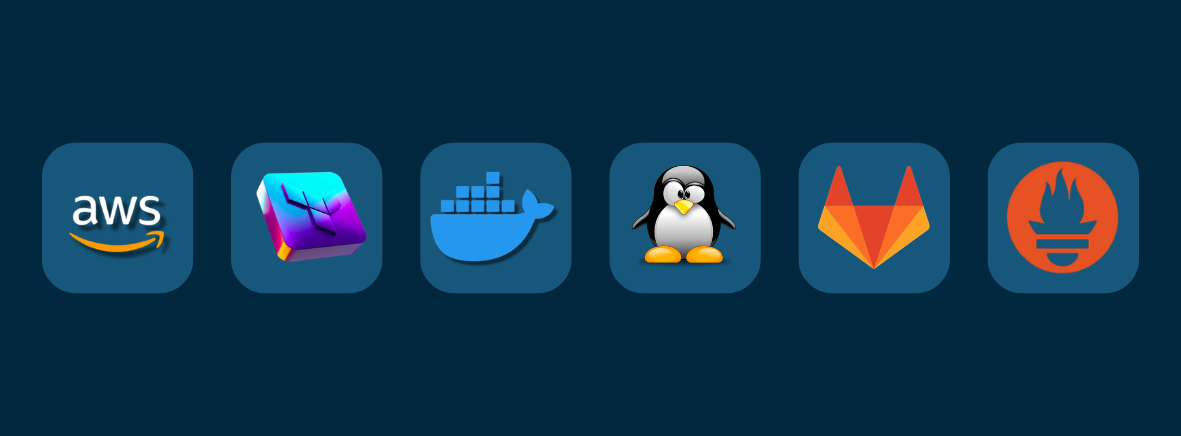
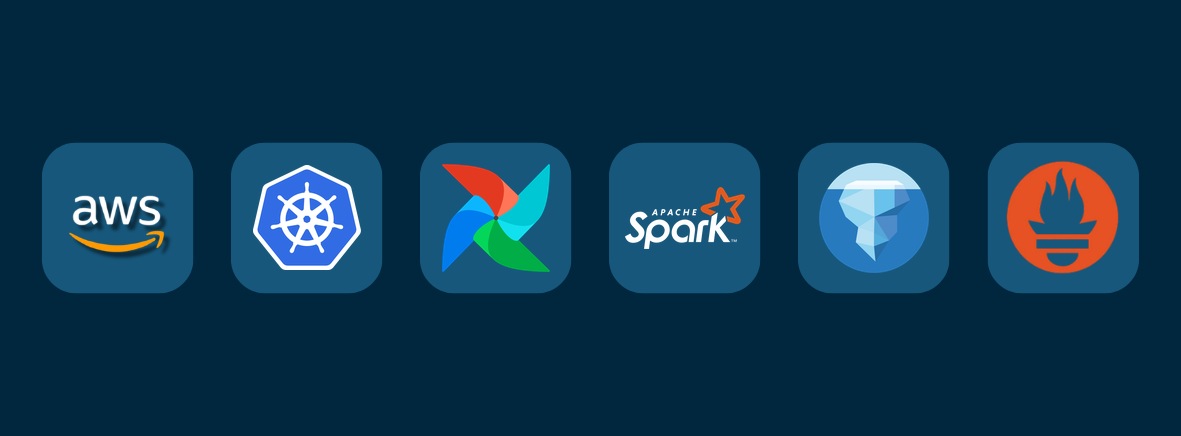
Atualiza as figurinhas da imagem do topo para as tecnologias atuais
- Mantém AWS e Prometheus exatamente como estavam.
- Troca Terraform, Docker, Linux e GitLab por Kubernetes, Apache Airflow,
  Apache Spark e Apache Iceberg, usando os logótipos oficiais publicados
  pelos projetos (CNCF artwork e repositórios da Apache).
- Mesmo tamanho, fundo e formato de cartão da imagem anterior.
- Descrição alternativa da imagem passa a listar as tecnologias.

Claude-Session: https://claude.ai/code/session_0163cPUuCWLmnjYqvMcpH5tM

diff --git a/index.html b/index.html
@@ -54,7 +54,7 @@
                 </div>
             </div>
             <div class="hero-image">
-                <img src="images/imagem_sitedeldotore.png" alt="Cloud Infrastructure">
+                <img src="images/imagem_sitedeldotore.png" alt="AWS, Kubernetes, Apache Airflow, Apache Spark, Apache Iceberg and Prometheus">
             </div>
         </div>
     </section>

diff --git a/index-pt.html b/index-pt.html
@@ -54,7 +54,7 @@
                 </div>
             </div>
             <div class="hero-image">
-                <img src="images/imagem_sitedeldotore.png" alt="Cloud Infrastructure">
+                <img src="images/imagem_sitedeldotore.png" alt="AWS, Kubernetes, Apache Airflow, Apache Spark, Apache Iceberg e Prometheus">
             </div>
         </div>
     </section>
